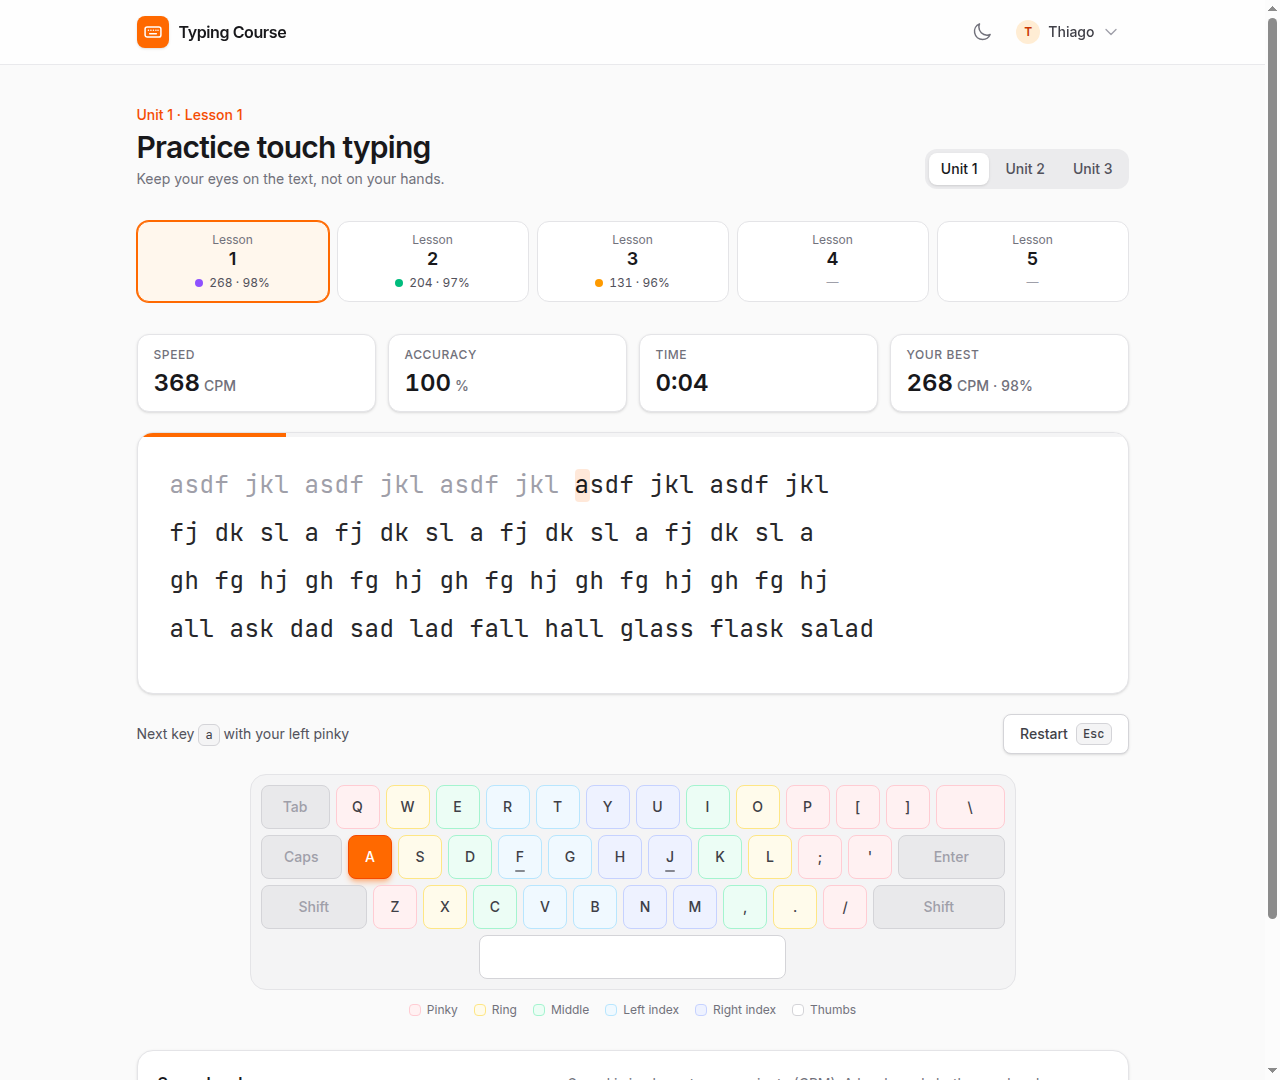
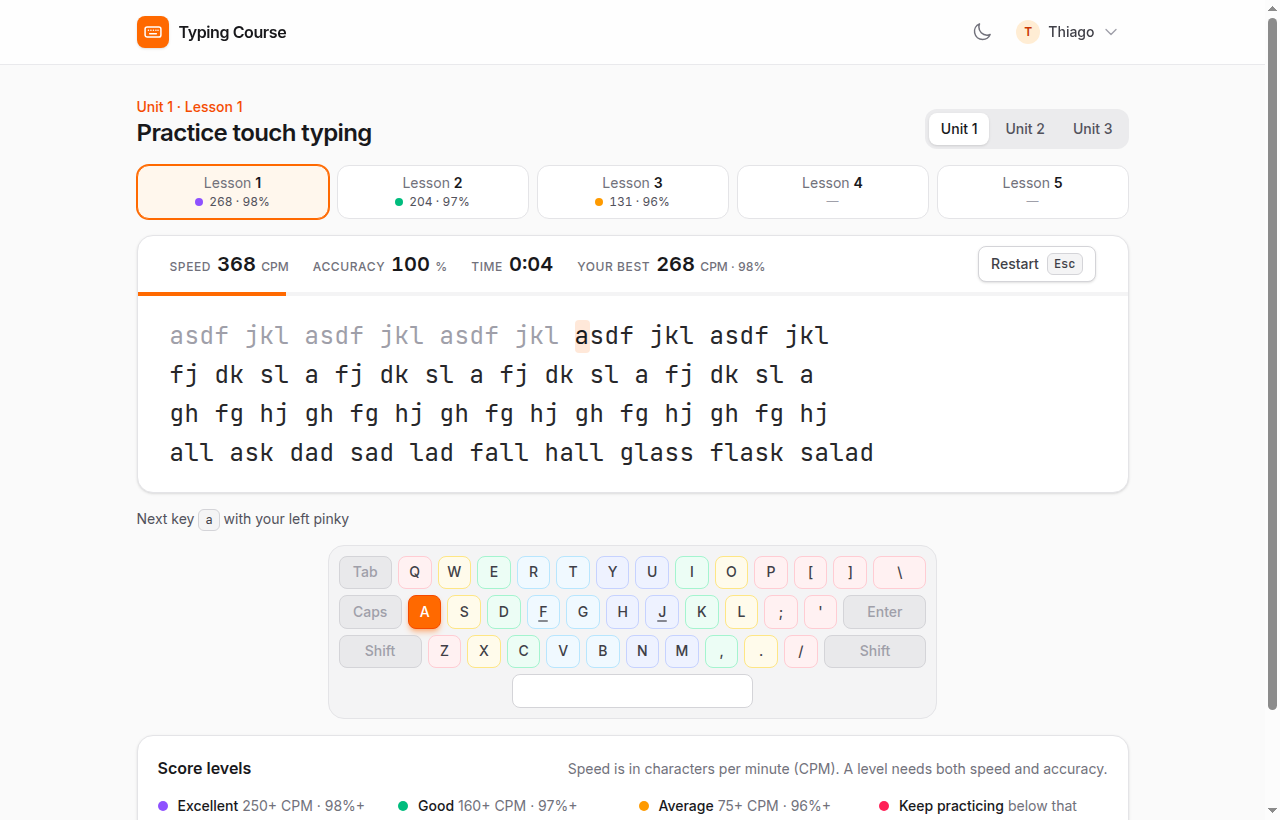
fix: fit the lesson screen on 1080p displays
On a 1080p display the browser leaves about 930px of height, and about
730px with the 125% scaling many laptops use. The lesson screen needed
1020px, so the on-screen keyboard was cut off, and with scaling the
whole keyboard was below the fold.

- the stats and the Restart button moved into a toolbar on top of the
  text, and the result panel is more compact
- lesson cards, headings and spacing are tighter
- smaller keys and no finger legend on screens shorter than 820px
- when a lesson starts on an even shorter screen, the page scrolls so
  the text and the keyboard are in view

The lesson now ends at 773px on a 1920x930 viewport and at 719px on a
1536x730 one, and a 1366x657 screen scrolls into place on the first
key. The README screenshots show the new layout.

diff --git a/resources/js/components/TypingLesson.vue b/resources/js/components/TypingLesson.vue
@@ -33,6 +33,7 @@ const saved = ref(false);
 const bestScore = ref(props.best);
 const previousBest = ref(props.best);
 const imeWarning = ref(false);
+const root = ref(null);
 
 let ticker = null;
 let flashTimer = null;
@@ -44,6 +45,9 @@ const primaryButton =
     'inline-flex items-center gap-2 rounded-lg bg-orange-500 px-4 py-2 text-sm font-semibold text-white shadow-sm transition hover:bg-orange-600 focus-visible:outline-2 focus-visible:outline-offset-2 focus-visible:outline-orange-500';
 const secondaryButton =
     'inline-flex items-center gap-2 rounded-lg border border-zinc-300 bg-white px-4 py-2 text-sm font-medium text-zinc-700 shadow-sm transition hover:bg-zinc-50 focus-visible:outline-2 focus-visible:outline-offset-2 focus-visible:outline-orange-500 dark:border-zinc-700 dark:bg-zinc-800 dark:text-zinc-200 dark:hover:bg-zinc-700';
+
+const smallButton =
+    'ml-auto inline-flex items-center gap-2 rounded-lg border border-zinc-300 bg-white px-3 py-1.5 text-sm font-medium text-zinc-700 shadow-sm transition hover:bg-zinc-50 focus-visible:outline-2 focus-visible:outline-offset-2 focus-visible:outline-orange-500 dark:border-zinc-700 dark:bg-zinc-800 dark:text-zinc-200 dark:hover:bg-zinc-700';
 
 const started = computed(() => startedAt.value !== null);
 const finished = computed(() => finishedAt.value !== null);
@@ -240,6 +244,16 @@ async function save() {
     }
 }
 
+// On short screens, bring the text and the keyboard into view when the lesson starts.
+function keepLessonInView() {
+    const section = root.value;
+
+    if (section && section.getBoundingClientRect().bottom > window.innerHeight) {
+        const reduceMotion = window.matchMedia('(prefers-reduced-motion: reduce)').matches;
+        section.scrollIntoView({ block: 'start', behavior: reduceMotion ? 'auto' : 'smooth' });
+    }
+}
+
 function flashError(key) {
     errorFlash.value = true;
     wrongKey.value = keyFor(key)?.key ?? null;
@@ -332,6 +346,7 @@ function onKeydown(event) {
     if (!started.value) {
         startedAt.value = performance.now();
         startTicker();
+        keepLessonInView();
     }
 
     correct.value += 1;
@@ -353,32 +368,35 @@ onBeforeUnmount(() => {
 </script>
 
 <template>
-    <section class="space-y-5" :aria-label="`Unit ${unit}, lesson ${lesson}`">
+    <section ref="root" class="scroll-mt-20 space-y-4" :aria-label="`Unit ${unit}, lesson ${lesson}`">
         <p
             class="rounded-xl border border-amber-300 bg-amber-50 px-4 py-3 text-sm text-amber-900 sm:hidden dark:border-amber-400/30 dark:bg-amber-400/10 dark:text-amber-200"
         >
             This course is made for a physical keyboard. Open it on a computer for the full experience.
         </p>
 
-        <dl class="grid grid-cols-2 gap-3 sm:grid-cols-4">
-            <div
-                v-for="stat in stats"
-                :key="stat.label"
-                class="rounded-xl border border-zinc-200 bg-white px-4 py-3 shadow-sm dark:border-zinc-800 dark:bg-zinc-900"
-            >
-                <dt class="text-xs font-medium uppercase tracking-wider text-zinc-500 dark:text-zinc-400">
-                    {{ stat.label }}
-                </dt>
-                <dd class="mt-1 flex items-baseline gap-1 text-2xl font-semibold tabular-nums">
-                    {{ stat.value }}
-                    <span v-if="stat.unit" class="text-sm font-medium text-zinc-500 dark:text-zinc-400">{{ stat.unit }}</span>
-                </dd>
-            </div>
-        </dl>
-
         <div
-            class="relative overflow-hidden rounded-2xl border border-zinc-200 bg-white shadow-sm dark:border-zinc-800 dark:bg-zinc-900"
+            class="overflow-hidden rounded-2xl border border-zinc-200 bg-white shadow-sm dark:border-zinc-800 dark:bg-zinc-900"
         >
+            <div class="flex flex-wrap items-center gap-x-6 gap-y-2 px-5 py-2.5 sm:px-8">
+                <dl class="flex flex-wrap items-baseline gap-x-6 gap-y-1">
+                    <div v-for="stat in stats" :key="stat.label" class="flex items-baseline gap-1.5">
+                        <dt class="text-xs font-medium uppercase tracking-wider text-zinc-500 dark:text-zinc-400">
+                            {{ stat.label }}
+                        </dt>
+                        <dd class="text-xl font-semibold tabular-nums">
+                            {{ stat.value }}
+                            <span v-if="stat.unit" class="text-xs font-medium text-zinc-500 dark:text-zinc-400">{{
+                                stat.unit
+                            }}</span>
+                        </dd>
+                    </div>
+                </dl>
+                <button type="button" :class="smallButton" @click="restartFromButton">
+                    Restart <kbd :class="kbd">Esc</kbd>
+                </button>
+            </div>
+
             <div
                 class="h-1 bg-zinc-100 dark:bg-zinc-800"
                 role="progressbar"
@@ -390,60 +408,65 @@ onBeforeUnmount(() => {
                 <div class="h-full bg-orange-500 transition-[width] duration-150" :style="{ width: `${progress}%` }"></div>
             </div>
 
-            <div
-                class="min-h-64 px-5 py-6 font-mono text-lg leading-loose tracking-wide sm:px-8 sm:text-2xl"
-                :class="{ 'motion-safe:animate-shake': errorFlash }"
-            >
-                <p v-for="(text, lineIndex) in lines" :key="lineIndex" class="whitespace-pre-wrap break-words">
-                    <span v-for="(character, charIndex) in text" :key="charIndex" :class="charClass(lineIndex, charIndex)">{{
-                        character
-                    }}</span>
-                </p>
-            </div>
-
-            <div
-                v-if="finished"
-                class="absolute inset-0 grid place-items-center bg-white/90 p-4 backdrop-blur-sm dark:bg-zinc-900/90"
-                role="status"
-                aria-live="polite"
-            >
-                <div class="text-center">
-                    <p class="text-xs font-semibold uppercase tracking-widest text-zinc-500 dark:text-zinc-400">
-                        Lesson complete
-                    </p>
-                    <p class="mt-2 text-4xl font-semibold tabular-nums sm:text-5xl">
-                        {{ speed }}<span class="text-lg font-medium text-zinc-500 dark:text-zinc-400"> CPM</span>
-                        <span class="px-2 text-zinc-300 dark:text-zinc-600">·</span>
-                        {{ accuracy }}<span class="text-lg font-medium text-zinc-500 dark:text-zinc-400">%</span>
-                    </p>
-                    <p class="mt-3">
+            <div class="relative">
+                <div
+                    class="px-5 py-5 font-mono text-lg leading-relaxed tracking-wide sm:px-8 sm:text-2xl"
+                    :class="{ 'motion-safe:animate-shake': errorFlash }"
+                >
+                    <p v-for="(text, lineIndex) in lines" :key="lineIndex" class="whitespace-pre-wrap break-words">
                         <span
-                            class="inline-flex items-center rounded-full px-3 py-1 text-sm font-medium ring-1 ring-inset"
-                            :class="level.badge"
-                            >{{ level.label }}</span
+                            v-for="(character, charIndex) in text"
+                            :key="charIndex"
+                            :class="charClass(lineIndex, charIndex)"
+                            >{{ character }}</span
                         >
                     </p>
-                    <p v-if="saveMessage" class="mt-3 text-sm text-zinc-600 dark:text-zinc-300">{{ saveMessage }}</p>
-                    <p v-if="!saveUrl || saveState === 'expired'" class="mt-3 text-sm text-zinc-600 dark:text-zinc-300">
-                        <a :href="loginUrl" class="font-medium text-orange-600 hover:underline dark:text-orange-400">Log in</a>
-                        <template v-if="registerUrl">
-                            or
-                            <a :href="registerUrl" class="font-medium text-orange-600 hover:underline dark:text-orange-400"
-                                >create an account</a
+                </div>
+
+                <div
+                    v-if="finished"
+                    class="absolute inset-0 grid place-items-center bg-white/90 px-4 backdrop-blur-sm dark:bg-zinc-900/90"
+                    role="status"
+                    aria-live="polite"
+                >
+                    <div class="text-center">
+                        <p class="text-xs font-semibold uppercase tracking-widest text-zinc-500 dark:text-zinc-400">
+                            Lesson complete
+                        </p>
+                        <div class="mt-1 flex flex-wrap items-center justify-center gap-x-3 gap-y-1">
+                            <p class="text-4xl font-semibold tabular-nums">
+                                {{ speed }}<span class="text-base font-medium text-zinc-500 dark:text-zinc-400"> CPM</span>
+                                <span class="px-1 text-zinc-300 dark:text-zinc-600">·</span>
+                                {{ accuracy }}<span class="text-base font-medium text-zinc-500 dark:text-zinc-400">%</span>
+                            </p>
+                            <span
+                                class="inline-flex items-center rounded-full px-3 py-1 text-sm font-medium ring-1 ring-inset"
+                                :class="level.badge"
+                                >{{ level.label }}</span
                             >
-                        </template>
-                        to save your scores.
-                    </p>
-                    <div class="mt-5 flex flex-wrap justify-center gap-2">
-                        <button type="button" :class="secondaryButton" @click="restartFromButton">
-                            Try again <kbd :class="kbd">Esc</kbd>
-                        </button>
-                        <button v-if="saveState === 'error'" type="button" :class="secondaryButton" @click="save">
-                            Retry saving
-                        </button>
-                        <a v-if="nextUrl" :href="nextUrl" :class="primaryButton">
-                            Next lesson <kbd class="rounded-md bg-white/20 px-1.5 py-0.5 font-mono text-xs">Enter</kbd>
-                        </a>
+                        </div>
+                        <p v-if="saveMessage" class="mt-2 text-sm text-zinc-600 dark:text-zinc-300">{{ saveMessage }}</p>
+                        <p v-if="!saveUrl || saveState === 'expired'" class="mt-1 text-sm text-zinc-600 dark:text-zinc-300">
+                            <a :href="loginUrl" class="font-medium text-orange-600 hover:underline dark:text-orange-400">Log in</a>
+                            <template v-if="registerUrl">
+                                or
+                                <a :href="registerUrl" class="font-medium text-orange-600 hover:underline dark:text-orange-400"
+                                    >create an account</a
+                                >
+                            </template>
+                            to save your scores.
+                        </p>
+                        <div class="mt-4 flex flex-wrap justify-center gap-2">
+                            <button type="button" :class="secondaryButton" @click="restartFromButton">
+                                Try again <kbd :class="kbd">Esc</kbd>
+                            </button>
+                            <button v-if="saveState === 'error'" type="button" :class="secondaryButton" @click="save">
+                                Retry saving
+                            </button>
+                            <a v-if="nextUrl" :href="nextUrl" :class="primaryButton">
+                                Next lesson <kbd class="rounded-md bg-white/20 px-1.5 py-0.5 font-mono text-xs">Enter</kbd>
+                            </a>
+                        </div>
                     </div>
                 </div>
             </div>
@@ -458,26 +481,22 @@ onBeforeUnmount(() => {
             the lesson.
         </p>
 
-        <div class="flex flex-wrap items-center justify-between gap-3 text-sm text-zinc-600 dark:text-zinc-400">
-            <p>
-                <template v-if="finished">
-                    Press <kbd :class="kbd">Esc</kbd> to try again<template v-if="nextUrl">
-                        or <kbd :class="kbd">Enter</kbd> for the next lesson</template
-                    >.
-                </template>
-                <template v-else-if="!started">
-                    Start typing to begin. The timer starts with your first correct key.
-                </template>
-                <template v-else>
-                    Next key <kbd :class="kbd">{{ nextLabel }}</kbd>
-                    <template v-if="fingerLabel"> with your {{ fingerLabel }}</template>
-                    <template v-if="nextKey?.shift"> + Shift</template>
-                </template>
-            </p>
-            <button v-if="!finished" type="button" :class="secondaryButton" @click="restartFromButton">
-                Restart <kbd :class="kbd">Esc</kbd>
-            </button>
-        </div>
+        <p class="text-sm text-zinc-600 dark:text-zinc-400">
+            <template v-if="finished">
+                Press <kbd :class="kbd">Esc</kbd> to try again<template v-if="nextUrl">
+                    or <kbd :class="kbd">Enter</kbd> for the next lesson</template
+                >.
+            </template>
+            <template v-else-if="!started">
+                Start typing to begin: the timer starts with your first correct key. Keep your eyes on the text, not on
+                your hands.
+            </template>
+            <template v-else>
+                Next key <kbd :class="kbd">{{ nextLabel }}</kbd>
+                <template v-if="fingerLabel"> with your {{ fingerLabel }}</template>
+                <template v-if="nextKey?.shift"> + Shift</template>
+            </template>
+        </p>
 
         <OnScreenKeyboard :next-key="nextKey?.key ?? null" :shift="nextKey?.shift ?? false" :wrong-key="wrongKey" />
     </section>

diff --git a/resources/js/components/OnScreenKeyboard.vue b/resources/js/components/OnScreenKeyboard.vue
@@ -62,7 +62,7 @@ function keyClass(key) {
 <template>
     <div class="hidden md:block" aria-hidden="true">
         <div
-            class="mx-auto w-fit select-none rounded-2xl border border-zinc-200 bg-zinc-100 p-2.5 [--u:2.4rem] lg:[--u:2.75rem] dark:border-zinc-800 dark:bg-zinc-900"
+            class="mx-auto w-fit select-none rounded-2xl border border-zinc-200 bg-zinc-100 p-2.5 on-screen-keyboard dark:border-zinc-800 dark:bg-zinc-900"
         >
             <div v-for="(row, index) in rows" :key="index" class="mb-1.5 flex gap-1.5">
                 <div
@@ -88,7 +88,7 @@ function keyClass(key) {
             </div>
         </div>
 
-        <ul class="mt-3 flex flex-wrap justify-center gap-x-4 gap-y-2 text-xs text-zinc-500 dark:text-zinc-400">
+        <ul class="mt-3 flex flex-wrap justify-center gap-x-4 gap-y-2 text-xs text-zinc-500 [@media(max-height:820px)]:hidden dark:text-zinc-400">
             <li v-for="item in legend" :key="item.label" class="flex items-center gap-1.5">
                 <span class="size-3 rounded border" :class="item.zone"></span>
                 {{ item.label }}

diff --git a/resources/css/app.css b/resources/css/app.css
@@ -39,3 +39,22 @@
         color-scheme: dark;
     }
 }
+
+@layer components {
+    .on-screen-keyboard {
+        --u: 2.4rem;
+    }
+
+    @media (min-width: 64rem) {
+        .on-screen-keyboard {
+            --u: 2.5rem;
+        }
+    }
+
+    /* Short screens (a 1080p display with 125% scaling, small laptops): smaller keys so the lesson fits. */
+    @media (max-height: 820px) {
+        .on-screen-keyboard {
+            --u: 2.1rem;
+        }
+    }
+}

diff --git a/resources/views/index.blade.php b/resources/views/index.blade.php
@@ -15,12 +15,11 @@
 @endphp
 
 @section('content')
-    <div class="space-y-8">
-        <div class="flex flex-col gap-5 sm:flex-row sm:items-end sm:justify-between">
+    <div class="space-y-4">
+        <div class="flex flex-col gap-4 sm:flex-row sm:items-end sm:justify-between">
             <div>
                 <p class="text-sm font-medium text-orange-600 dark:text-orange-400">Unit {{ $unidade }} · Lesson {{ $licao }}</p>
-                <h1 class="mt-1 text-2xl font-semibold tracking-tight sm:text-3xl">Practice touch typing</h1>
-                <p class="mt-1 text-sm text-zinc-500 dark:text-zinc-400">Keep your eyes on the text, not on your hands.</p>
+                <h1 class="text-xl font-semibold tracking-tight sm:text-2xl">Practice touch typing</h1>
             </div>
 
             <nav aria-label="Units" class="inline-flex gap-1 self-start rounded-xl bg-zinc-200/70 p-1 sm:self-auto dark:bg-zinc-800/70">
@@ -48,21 +47,20 @@
                     <li>
                         <a href="{{ url("/{$unidade}/{$number}") }}"
                            @class([
-                               'flex min-w-0 flex-col items-center rounded-xl border px-1 py-2 text-center transition focus-visible:outline-2 focus-visible:outline-orange-500 sm:px-2 sm:py-2.5',
+                               'flex min-w-0 flex-col items-center rounded-xl border px-1 py-1.5 text-center transition focus-visible:outline-2 focus-visible:outline-orange-500 sm:px-2 sm:py-2',
                                'border-orange-500 bg-orange-50 ring-1 ring-orange-500 dark:bg-orange-400/10' => $active,
                                'border-zinc-200 bg-white hover:border-zinc-300 hover:shadow-sm dark:border-zinc-800 dark:bg-zinc-900 dark:hover:border-zinc-700' => ! $active,
                            ])
                            @if ($active) aria-current="page" @endif
                            @if ($score) data-level="{{ $score['nivel'] }}" @endif
                            data-lesson-card="{{ $number }}">
-                            <span class="sr-only text-xs text-zinc-500 sm:not-sr-only dark:text-zinc-400">Lesson</span>
-                            <span class="text-lg font-semibold leading-tight">{{ $number }}</span>
-                            <span data-score class="mt-1 flex items-center gap-1.5 text-xs tabular-nums text-zinc-600 dark:text-zinc-300" @unless ($score) hidden @endunless>
+                            <span class="text-sm font-semibold leading-tight"><span class="sr-only font-normal text-zinc-500 sm:not-sr-only dark:text-zinc-400">Lesson </span>{{ $number }}</span>
+                            <span data-score class="mt-0.5 flex items-center gap-1.5 text-xs tabular-nums text-zinc-600 dark:text-zinc-300" @unless ($score) hidden @endunless>
                                 <span data-score-dot class="size-2 shrink-0 rounded-full {{ $score ? $levelStyles[$score['nivel']]['dot'] : '' }}" aria-hidden="true"></span>
                                 <span data-score-text class="hidden sm:inline">{{ $score ? $score['velocidade'].' · '.$score['precisao'].'%' : '' }}</span>
                                 <span data-score-label class="sr-only">{{ $score ? $levelStyles[$score['nivel']]['label'] : '' }}</span>
                             </span>
-                            <span data-score-empty class="mt-1 text-xs text-zinc-400 dark:text-zinc-600" aria-hidden="true" @if ($score) hidden @endif>—</span>
+                            <span data-score-empty class="mt-0.5 text-xs text-zinc-400 dark:text-zinc-600" aria-hidden="true" @if ($score) hidden @endif>—</span>
                         </a>
                     </li>
                 @endforeach
@@ -70,7 +68,7 @@
         </nav>
 
         <div data-vue="typing-lesson" data-props="{{ json_encode($lessonProps, JSON_UNESCAPED_SLASHES | JSON_UNESCAPED_UNICODE) }}">
-            <div class="min-h-64 rounded-2xl border border-zinc-200 bg-white px-5 py-6 font-mono text-lg leading-loose tracking-wide text-zinc-800 shadow-sm sm:px-8 sm:text-2xl dark:border-zinc-800 dark:bg-zinc-900 dark:text-zinc-200">
+            <div class="min-h-[16.5rem] rounded-2xl border border-zinc-200 bg-white px-5 py-5 font-mono text-lg leading-relaxed tracking-wide text-zinc-800 shadow-sm sm:px-8 sm:text-2xl dark:border-zinc-800 dark:bg-zinc-900 dark:text-zinc-200">
                 @foreach ($lessonProps['lines'] as $line)
                     <p class="whitespace-pre-wrap break-words">{{ $line }}</p>
                 @endforeach

diff --git a/resources/views/layouts/app.blade.php b/resources/views/layouts/app.blade.php
@@ -78,7 +78,7 @@
         </div>
     </header>
 
-    <main id="main" class="mx-auto max-w-5xl px-4 py-8 sm:py-10">
+    <main id="main" class="mx-auto max-w-5xl px-4 py-6 sm:py-8">
         @yield('content')
     </main>
 
